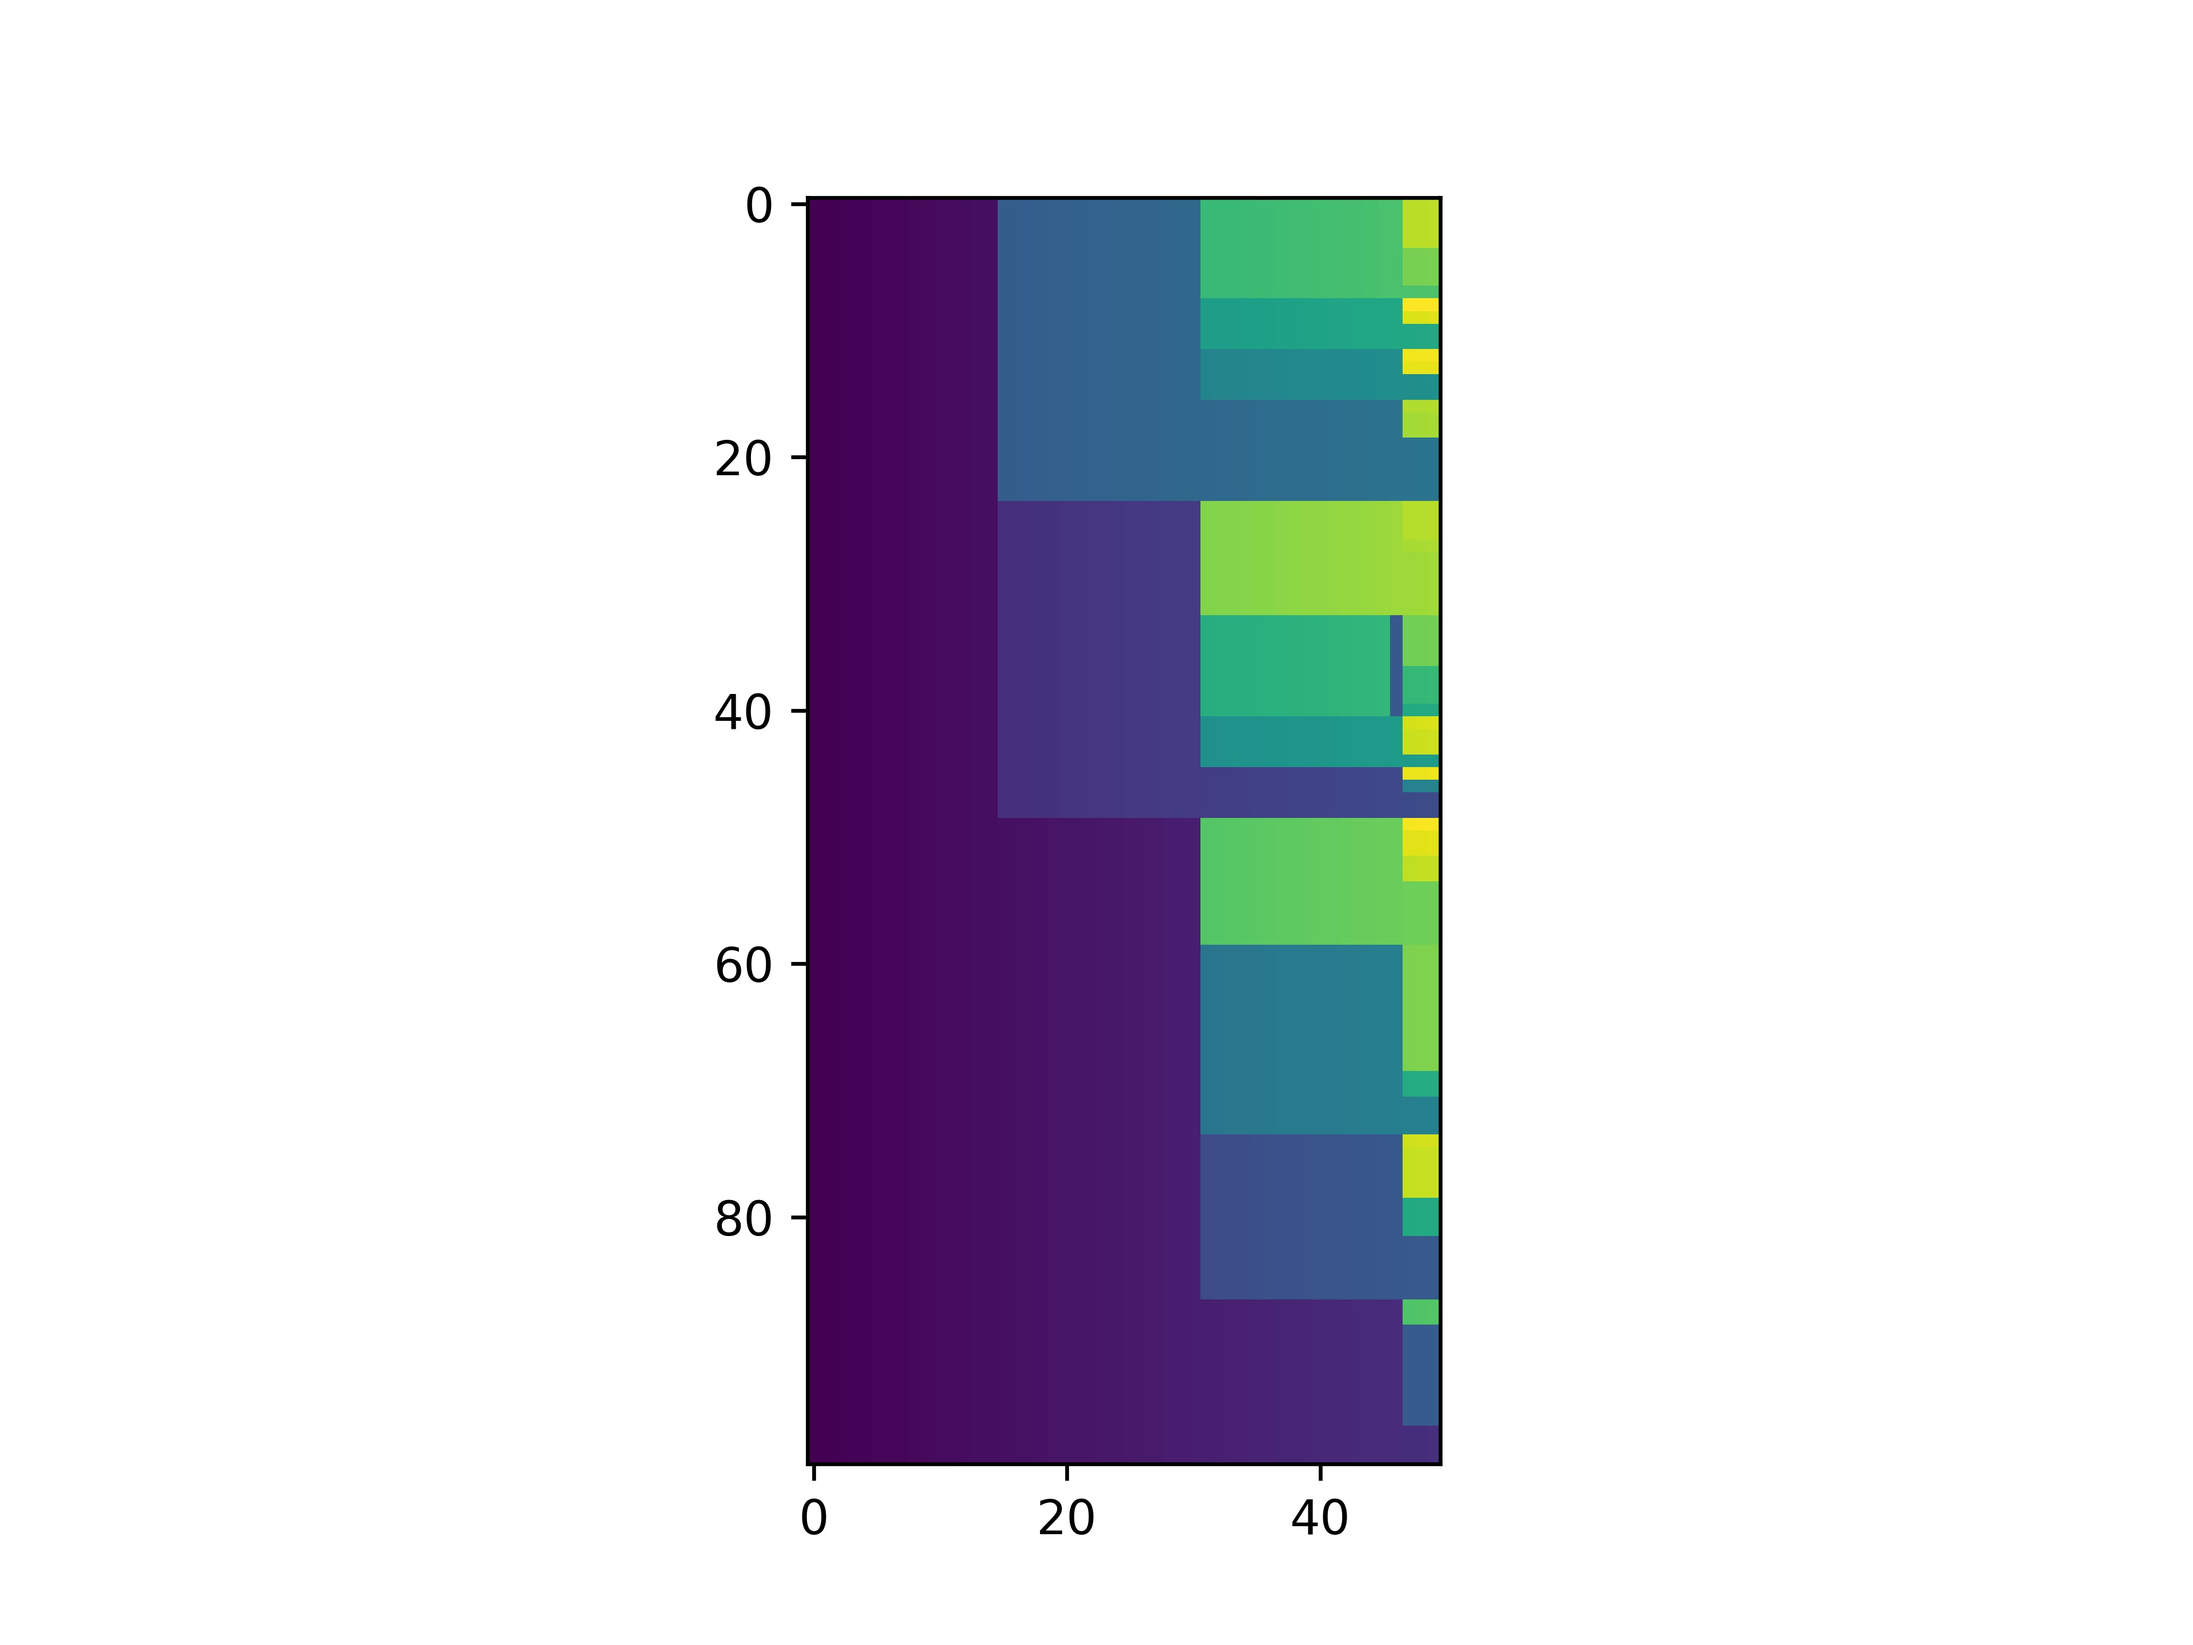
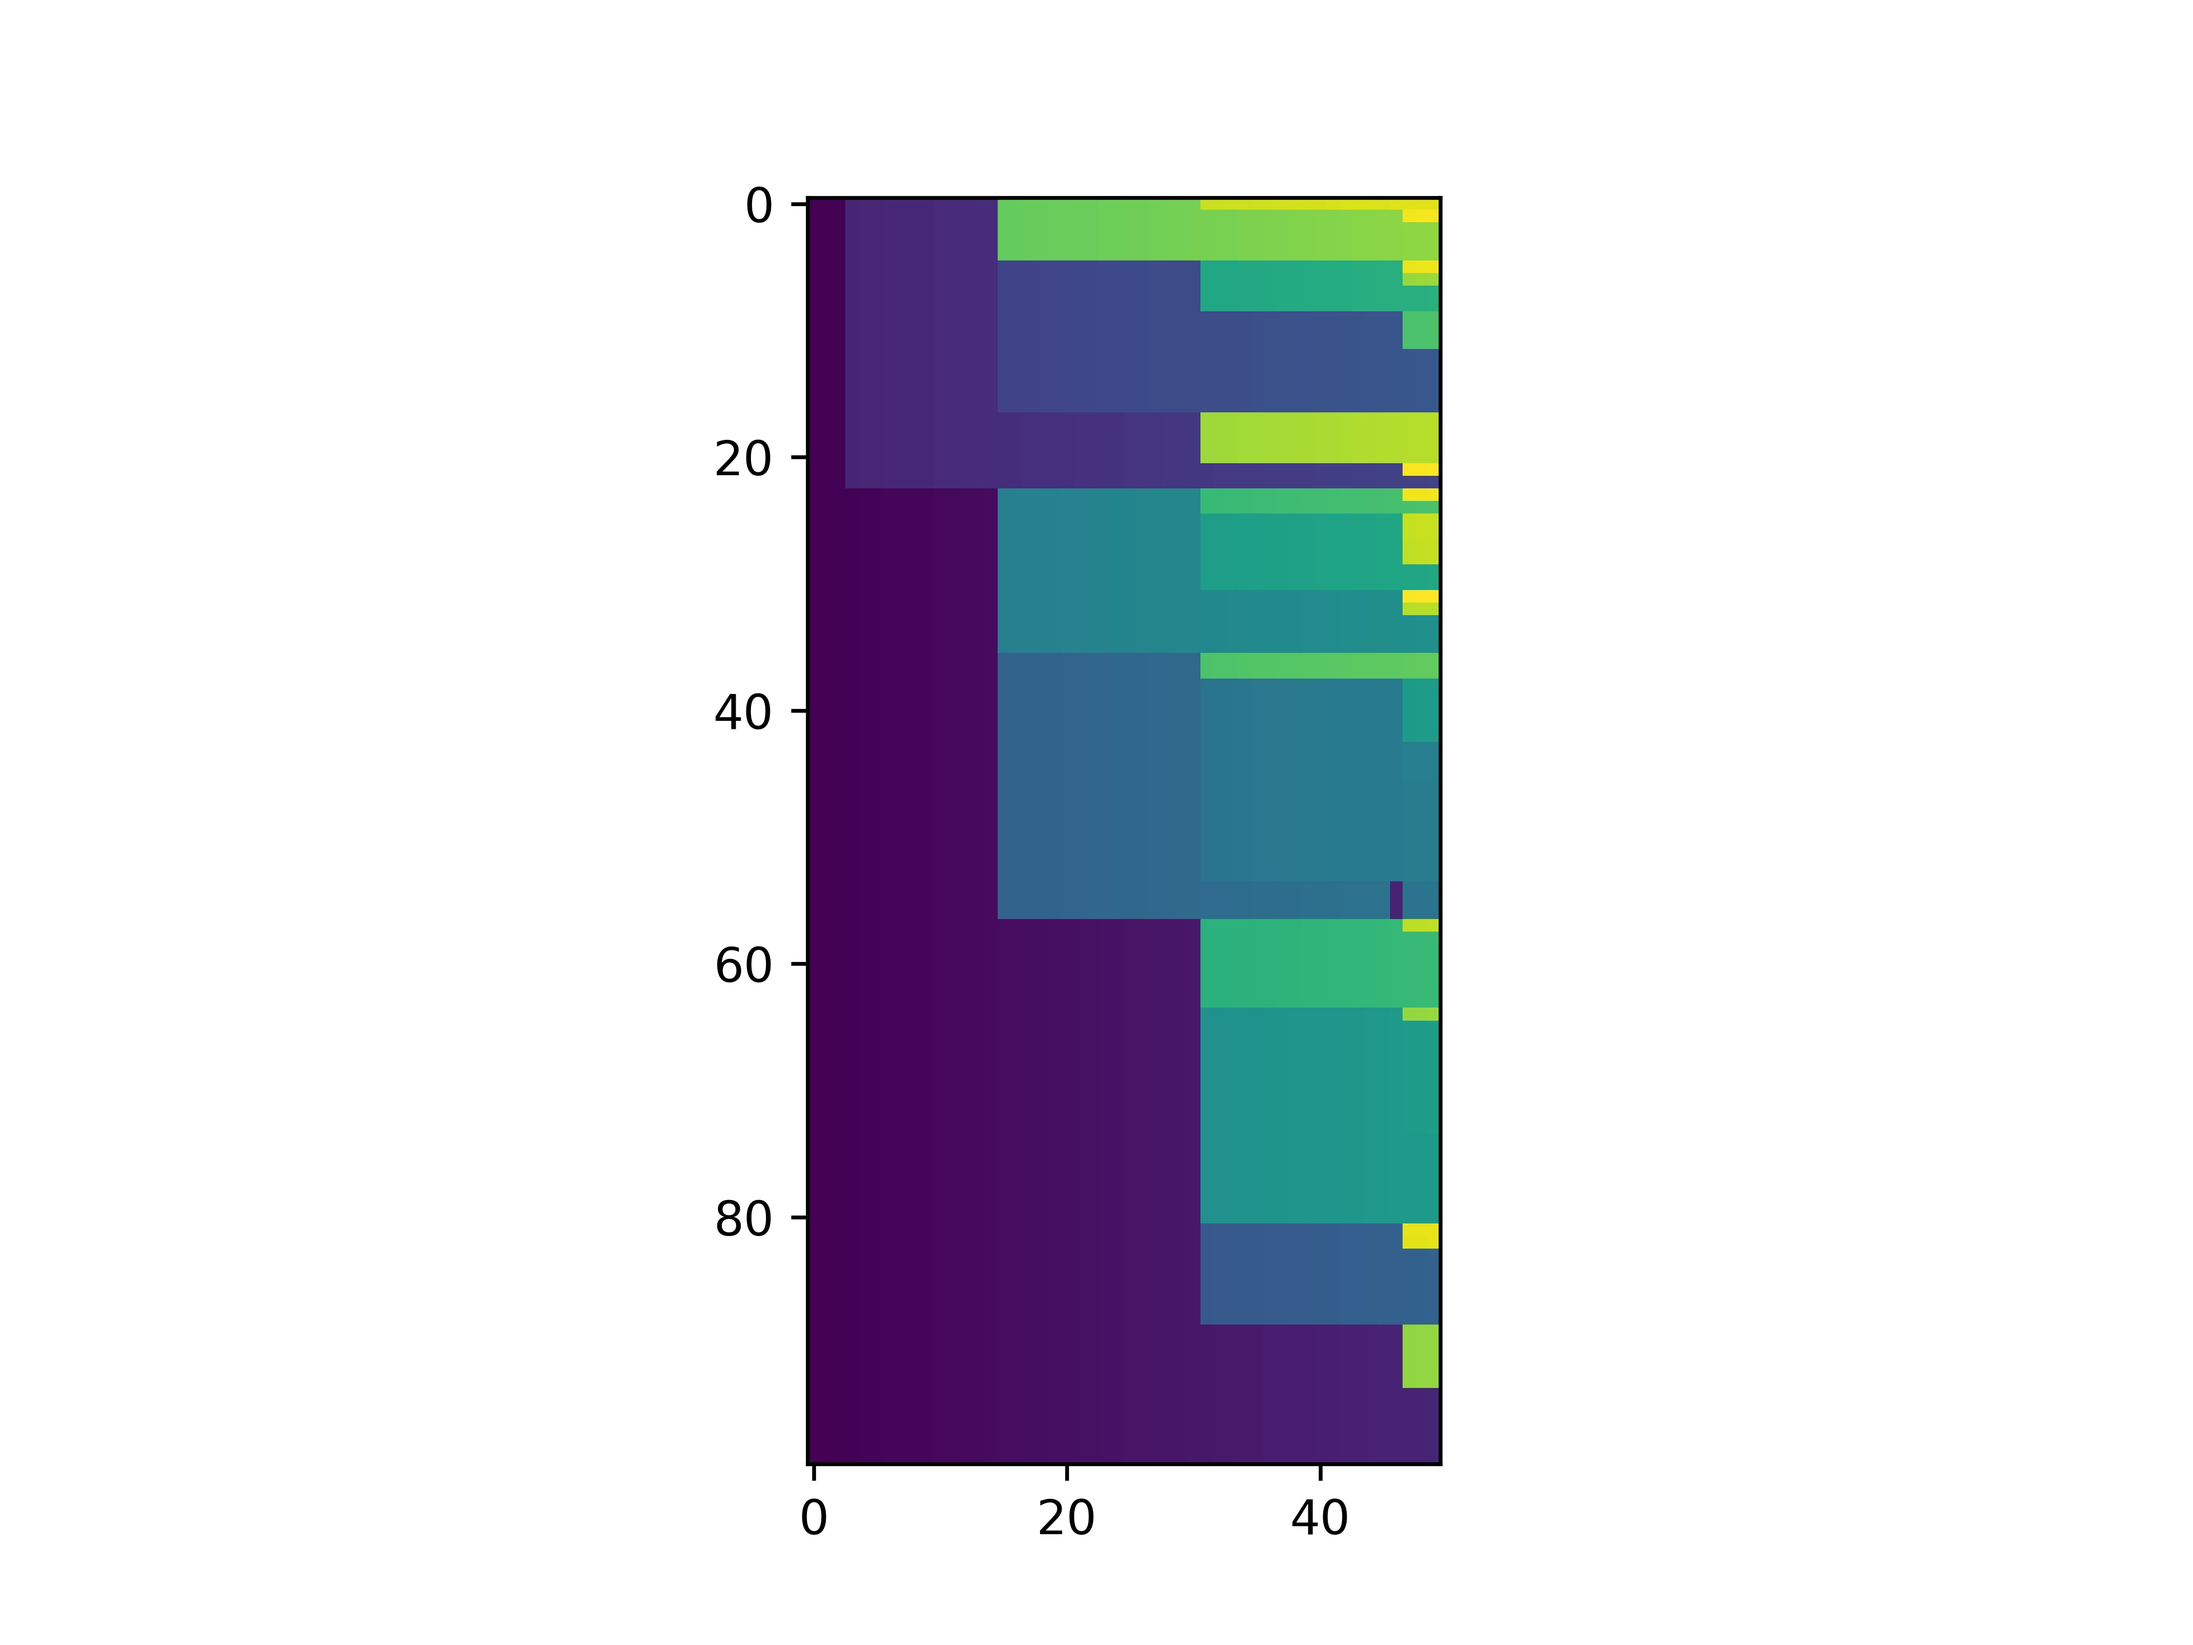
ok

Changed region(s): [[0.375, 0.0938, 0.6562, 0.875]]

diff --git a/test_stochastic.py b/test_stochastic.py
@@ -6,14 +6,14 @@ import matplotlib
 matplotlib.use('agg')
 import matplotlib.pyplot as plt
 
-# test = 'loadROM'
-test = 'setRAM'
+test = 'loadROM'
+# test = 'setRAM'
 # test = 'restoreState'
 # test = 'restoreSystemState'
 
-frame_skip = 4
-bunch = 100
-sequence = 50
+frame_skip = 4 # frames to skup at every interaction, during the skipped frames, the same action is taken
+bunch = 100 # how many bunches do you want to test
+sequence = 50 # how lone sequence do you want to use
 
 spaces = '                                                     '
 
@@ -48,8 +48,7 @@ def main():
     # all_game_list = ['solaris-n', 'space_invaders', 'star_gunner', 'tennis', 'time_pilot', 'tutankham', 'up_n_down']
     # all_game_list = ['venture', 'video_pinball', 'wizard_of_wor', 'yars_revenge-n', 'zaxxon']
 
-    # all_game_list = ['pong', 'assault','ms_pacman']
-    all_game_list = ['ice_hockey']
+    all_game_list = ['assault']
 
     for game in all_game_list:
 

diff --git a/README.md b/README.md
@@ -1,6 +1,4 @@
-# Test Stochasticity of ALE
-
-Code for testing the stochasticity of ALE.
+# Test Stochasticity of ALE (Branch for Kevin)
 
 ### Requirements
 
@@ -10,18 +8,7 @@ Code for testing the stochasticity of ALE.
 
 ### Run the code
 
-To test the stochasticity of loadROM, set ```test = 'loadROM'``` in python file ```test_stochastic.py```, and then run ```python test_stochastic.py```.
-It should produce:
-```
-game:pong grouped_num:1 distribution:[200]
-game:assault grouped_num:57 distribution:[4, 4, 6, 3, 8, 9, 2, 5, 3, 2, 5, 5, 5, 4, 5, 4, 2, 4, 6, 3, 1, 4, 1, 5, 5, 1, 2, 1, 3, 6, 3, 4, 2, 3, 5, 3, 4, 6, 3, 5, 4, 3, 2, 2, 3, 4, 2, 1, 3, 4, 3, 1, 2, 2, 5, 2, 1]
-game:ms_pacman grouped_num:1 distribution:[200]
-```
+Hi, Kevin, please run ```python test_stochastic.py``` in this particular for_kevin branch. On other branches, the code has some other purposes which may cause confusion to you.
 
-To test the stochasticity of restoreState, set ```test = 'restoreState'``` in python file ```test_stochastic.py```, and then run ```python test_stochastic.py```.
-It should produce:
-```
-game:pong grouped_num:1 distribution:[200]
-game:assault grouped_num:1 distribution:[200]
-game:ms_pacman grouped_num:1 distribution:[200]
-```
+In the '''./action_sequence''' dir, their are random generated action sequence I am using to test the stochasticity in ALE, for you task, you may want to replace the random generated actions with actions generated from your agent.
+Besides, the image gets bigger when you are using long action sequence, you may want to take care of that before it makes a mass on your machine.
